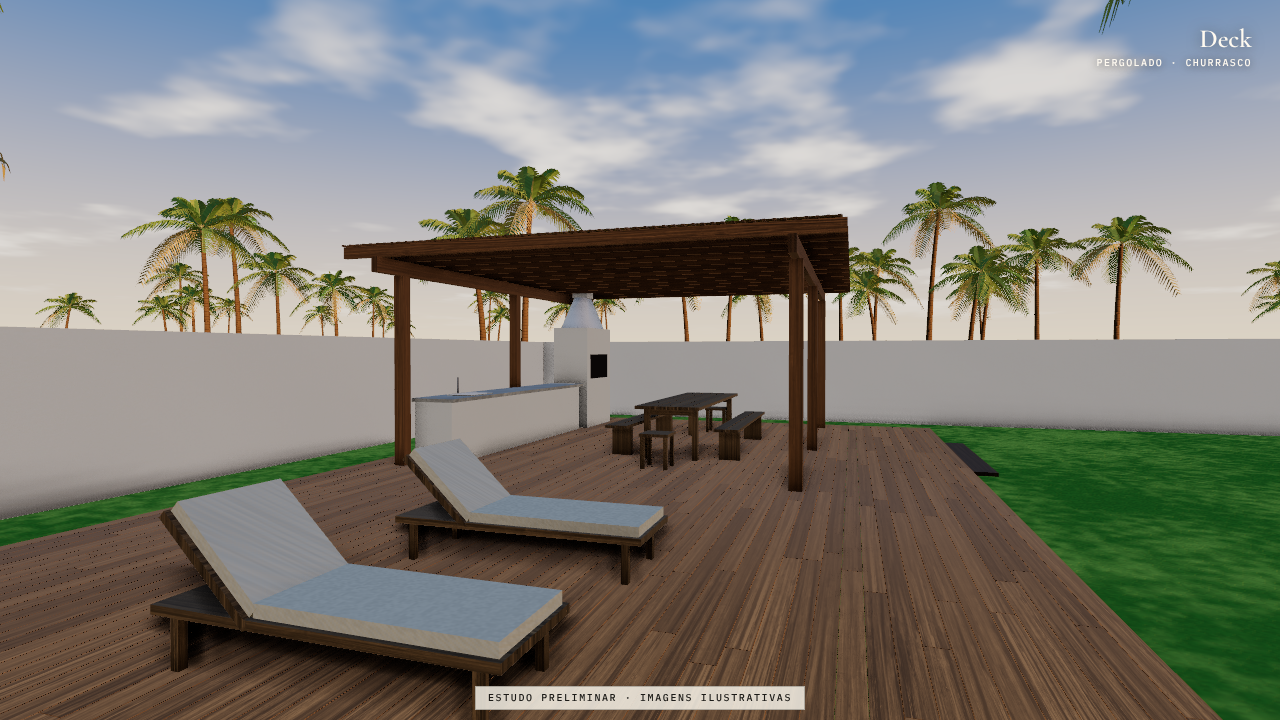
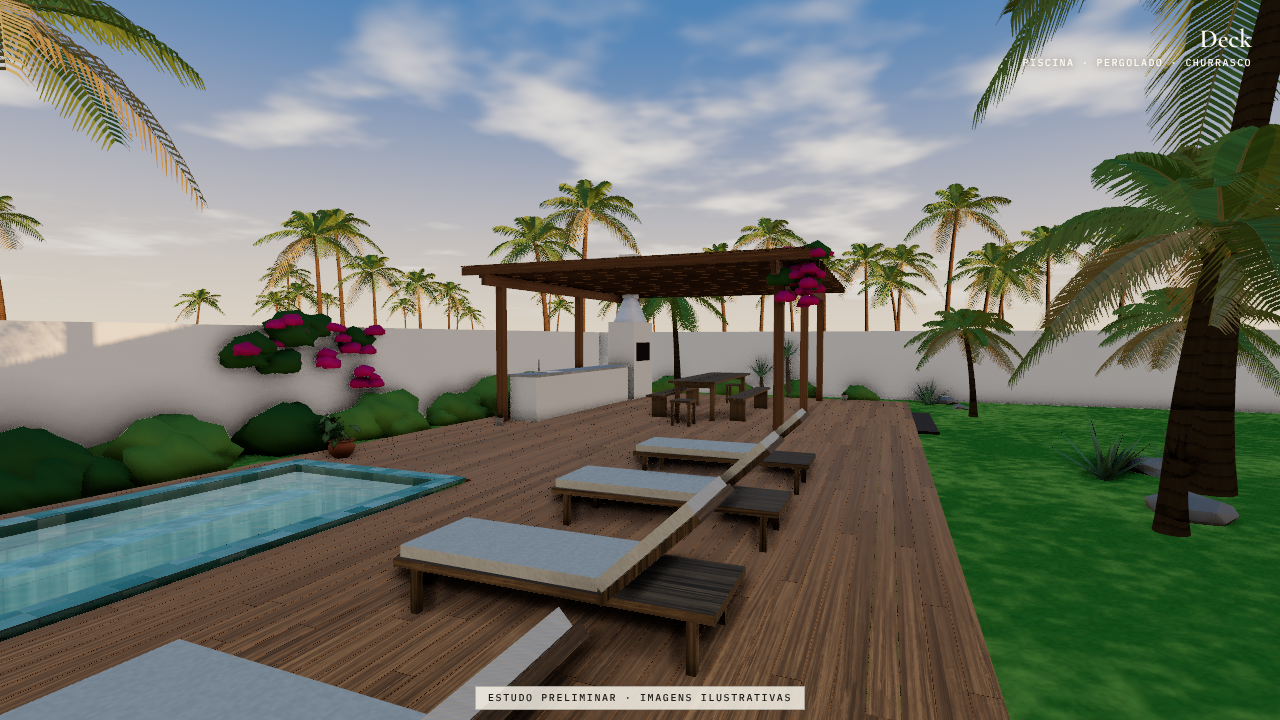
Deck: piscina pequena de hijau, jardim tropical, yucas, coqueiros jovens e cajueiro
Claude-Session: https://claude.ai/code/session_01YPcRSbRADDpDwY2jFYXNFA

diff --git a/js/world.js b/js/world.js
@@ -167,7 +167,7 @@ export function makeMaterials(T, env) {
       m = std('#ffffff', 0.97);
       patch(m, { kind, U, uniforms: { uS: { value: lin('#dcc59c') }, uG: { value: lin('#6d7f3c') }, uD: { value: lin('#a89064') }, uOut: { value: 0 }, uTex: { value: T.sand }, uTexN: { value: T.sandN } },
         head: 'uniform vec3 uS, uG, uD; uniform float uOut; uniform sampler2D uTex, uTexN;' + TRI,
-        color: `if (vWP.x > 29.25 && vWP.x < 44.25 && vWP.z > 12. && vWP.z < 14.) discard; float big = fbm(vWP.xz * .045 + 3.1), mid = fbm(vWP.xz * .5), fine = vn(vWP.xz * 18.);
+        color: `if ((vWP.x > 29.25 && vWP.x < 44.25 && vWP.z > 12. && vWP.z < 14.) || (vWP.x > 38.2 && vWP.x < 42.7 && vWP.z > -13.9 && vWP.z < -11.7)) discard; float big = fbm(vWP.xz * .045 + 3.1), mid = fbm(vWP.xz * .5), fine = vn(vWP.xz * 18.);
           vec3 st = texture2D(uTex, vWP.xz * .4).rgb;
           vec3 c = uS * (.9 + .15 * mid) * mix(1., clamp(lum(st) / .1825, .3, 2.2), .7);
           float far = smoothstep(4., 14., min(max(max(${LOT.x0.toFixed(1)} - vWP.x, vWP.x - ${LOT.x1.toFixed(1)}), max(-vWP.z, vWP.z - 23.)), max(max(${LOT.lx.toFixed(1)} - vWP.x, vWP.x - ${LOT.x1.toFixed(1)}), max(${LOT.lz.toFixed(1)} - vWP.z, vWP.z))));
@@ -181,7 +181,7 @@ export function makeMaterials(T, env) {
     } else if (kind === 'grass') {
       m = std('#ffffff', 0.95);
       patch(m, { kind, U, uniforms: { uA: { value: lin('#5c9534') }, uB: { value: lin('#97c052') } }, head: 'uniform vec3 uA, uB;',
-        color: `if (vWP.x > 29.25 && vWP.x < 44.25 && vWP.z > 12. && vWP.z < 14.) discard; float n = fbm(vWP.xz * .6), f = vn(vWP.xz * 40.), g = vn(vWP.xz * 9.);
+        color: `if ((vWP.x > 29.25 && vWP.x < 44.25 && vWP.z > 12. && vWP.z < 14.) || (vWP.x > 38.2 && vWP.x < 42.7 && vWP.z > -13.9 && vWP.z < -11.7)) discard; float n = fbm(vWP.xz * .6), f = vn(vWP.xz * 40.), g = vn(vWP.xz * 9.);
           diffuseColor.rgb = mix(uA, uB, smoothstep(.3, .75, n * .7 + g * .3)) * (.88 + .2 * f);`,
         bump: 'hgt = vn(vWP.xz * 40.) * .01 + vn(vWP.xz * 9.) * .01;' });
     } else if (kind === 'water') {
@@ -403,6 +403,7 @@ export async function buildWorld({ url, T, env, phone, onProgress }) {
     // lote em L: muros e gramado são refeitos adiante; a frente avança FX, a ducha acompanha o muro do fundo
     if ((k === 4 && Math.abs(bb.max.y - 2) < 0.01 && bb.min.y < 0.01) || k === 3) { srcMat[k] = o.material; return; }
     if (k === 6 && bb.min.x < 16 + FX) return; // pisantes que ficariam dentro do estacionamento
+    if (k === 65 && bb.max.x - bb.min.x > 20) return; // cerca-viva em caixa atrás do bloco A: agora fica à vista, o jardim do deck entra no lugar
     if (k === 69) {
       const x = (bb.min.x + bb.max.x) / 2, z = (bb.min.z + bb.max.z) / 2;
       if (x > 17.6 && x < 19) { const [nx, nz] = MOVED[moved++ % MOVED.length]; trunks.push({ x: nx, z: nz, h: bb.max.y }); } // coqueiros da faixa da frente vão para o jardim do deck
@@ -496,24 +497,27 @@ export async function buildWorld({ url, T, env, phone, onProgress }) {
   }
   // deck de madeira com quiosque de churrasco, na ala do mar (decisão do Leonardo; não existe no GLB)
   {
-    const add = (geos, kind, hex, ink = 0, cast = true) => {
+    const add = (geos, kind, hex, ink = 0, cast = true, plain = false) => {
       geos.forEach((g) => { g.computeBoundingBox(); pieceIds(g, g.boundingBox); });
       const geo = mergeGeometries(geos.map((g) => (g.index ? g.toNonIndexed() : g))); geo.computeBoundingBox(); const bb = geo.boundingBox;
       const U = { uCut: { value: 1e4 }, uAxis: { value: V(1, 0, 0) }, uBand: { value: 0 } };
-      const mat = M.make(kind, hex, U); mat.side = THREE.DoubleSide; mat.shadowSide = THREE.DoubleSide;
-      const m = new THREE.Mesh(geo, mat); m.receiveShadow = true;
+      const mat = M.make(kind, hex, U); if (!plain) { mat.side = THREE.DoubleSide; mat.shadowSide = THREE.DoubleSide; }
+      const m = new THREE.Mesh(geo, mat); m.receiveShadow = true; if (kind === 'poolwater') m.renderOrder = 3;
       if (cast) { m.castShadow = true; m.customDepthMaterial = depthPatch(U); }
       m.userData = { stage: 6, ink, U, lo: bb.min.x - 0.05, hi: bb.max.x + 0.05, mode: 'x', hotel: true, kind };
       root.add(m); groups.push(m);
     };
     const box = (w, h, d, x, y, z) => new THREE.BoxGeometry(w, h, d).translate(x, y, z);
     const cyl = (r, h, x, y, z, r2 = r) => new THREE.CylinderGeometry(r2, r, h, 14).translate(x, y, z);
-    const D = DECK, K = KIO, rr = rng(31);
+    const D = DECK, K = KIO, rr = rng(31), PP = { x0: 38.2, x1: 42.7, z0: -13.9, z1: -11.7, d: 1.1 }, cp = 0.25;
     // tábuas de 14 cm correndo ao comprido, emendadas em comprimentos variados; cada uma é uma peça (tom e veio próprios)
     const planks = [], Wd = 0.14, gap = 0.003;
     for (let z = D.z0; z < D.z1 - 0.01; z += Wd + gap) {
-      let x = D.x0;
-      while (x < D.x1 - 0.01) { const l = Math.min(D.x1 - x, 2.4 + rr() * 2.2); planks.push(box(l - gap, 0.03, Wd, x + l / 2, D.h - 0.015, z + Wd / 2)); x += l; }
+      const hole = z + Wd > PP.z0 - cp && z < PP.z1 + cp; // a piscina do deck interrompe as tábuas
+      (hole ? [[D.x0, PP.x0 - cp], [PP.x1 + cp, D.x1]] : [[D.x0, D.x1]]).forEach(([xa, xb]) => {
+        let x = xa;
+        while (x < xb - 0.01) { const l = Math.min(xb - x, 2.4 + rr() * 2.2); planks.push(box(l - gap, 0.03, Wd, x + l / 2, D.h - 0.015, z + Wd / 2)); x += l; }
+      });
     }
     add(planks, 'deck', '#c98a52');
     // saia e barrotes
@@ -548,16 +552,86 @@ export async function buildWorld({ url, T, env, phone, onProgress }) {
       [-1, 1].forEach((sx) => furn.push(box(0.07, 0.43, 0.3, tx + sx * (tl / 2 - 0.45), by + 0.215, zb))); });
     [-1, 1].forEach((sx) => { const xb = tx + sx * (tl / 2 + 0.45); furn.push(box(0.4, 0.04, 0.4, xb, by + 0.45, tz)); [[-1, -1], [-1, 1], [1, -1], [1, 1]].forEach(([a, b]) => furn.push(box(0.05, 0.43, 0.05, xb + a * 0.16, by + 0.215, tz + b * 0.16))); });
     add(furn, 'wood', '#b08a5e');
-    // espreguiçadeiras no deck aberto, viradas para o sol da tarde
+    // espreguiçadeiras no deck aberto, viradas para a piscina do deck
     const fr2 = [], cush = [];
     [38.6, 40.4, 42.2, 44.0].forEach((x) => {
-      const z = -10.3;
+      const z = -8.7;
       fr2.push(box(0.66, 0.05, 1.95, x, by + 0.3, z)); [[-1, -1], [-1, 1], [1, -1], [1, 1]].forEach(([a, b]) => fr2.push(box(0.05, 0.28, 0.05, x + a * 0.28, by + 0.14, z + b * 0.85)));
-      cush.push(box(0.6, 0.07, 1.3, x, by + 0.36, z + 0.3));
-      const back = box(0.6, 0.07, 0.68, 0, 0, 0).rotateX(0.75).translate(x, by + 0.58, z - 0.6); cush.push(back);
-      const sup = box(0.66, 0.05, 0.72, 0, 0, 0).rotateX(0.75).translate(x, by + 0.53, z - 0.63); fr2.push(sup);
+      cush.push(box(0.6, 0.07, 1.3, x, by + 0.36, z - 0.3));
+      const back = box(0.6, 0.07, 0.68, 0, 0, 0).rotateX(-0.75).translate(x, by + 0.58, z + 0.6); cush.push(back);
+      const sup = box(0.66, 0.05, 0.72, 0, 0, 0).rotateX(-0.75).translate(x, by + 0.53, z + 0.63); fr2.push(sup);
     });
     add(fr2, 'wood', '#b08a5e'); add(cush, 'fabric', '#e6dcc6');
+
+    // piscina pequena no deck (4,5 × 2,2 m), na mesma pedra hijau da piscina do pátio
+    {
+      const L = PP.x1 - PP.x0, W2 = PP.z1 - PP.z0, cx = (PP.x0 + PP.x1) / 2, cz = (PP.z0 + PP.z1) / 2, hh = D.h + PP.d, ym = D.h - hh / 2;
+      add([new THREE.PlaneGeometry(L, W2).rotateX(-Math.PI / 2).translate(cx, -PP.d, cz),
+        new THREE.PlaneGeometry(L, hh).translate(cx, ym, PP.z0), new THREE.PlaneGeometry(L, hh).rotateY(Math.PI).translate(cx, ym, PP.z1),
+        new THREE.PlaneGeometry(W2, hh).rotateY(Math.PI / 2).translate(PP.x0, ym, cz), new THREE.PlaneGeometry(W2, hh).rotateY(-Math.PI / 2).translate(PP.x1, ym, cz),
+        // banco submerso num dos lados, como numa jacuzzi
+        box(L, 0.5, 0.45, cx, -PP.d + 0.75, PP.z0 + 0.225)], 'hijau', '#ffffff', 0, false, true);
+      add([box(L + 2 * cp, 0.04, cp, cx, D.h + 0.005, PP.z0 - cp / 2), box(L + 2 * cp, 0.04, cp, cx, D.h + 0.005, PP.z1 + cp / 2),
+        box(cp, 0.04, W2, PP.x0 - cp / 2, D.h + 0.005, cz), box(cp, 0.04, W2, PP.x1 + cp / 2, D.h + 0.005, cz)], 'hijau', '#ffffff', 0, true, true);
+      add([new THREE.PlaneGeometry(L, W2).rotateX(-Math.PI / 2).translate(cx, D.h - 0.07, cz)], 'poolwater', '#ffffff', 2, false, true);
+    }
+
+    // jardim do deck: canteiros tropicais junto aos muros e ilhas no gramado (moitas, agaves, pedras, primavera)
+    {
+      const g2 = rng(77), R2 = (a, b) => a + g2() * (b - a);
+      const blob = (x, y, z, s, sy = 0.8) => {
+        const sg = new THREE.SphereGeometry(1, 10, 7), pa = sg.attributes.position, ph = g2() * 9;
+        for (let i = 0; i < pa.count; i++) { const X = pa.getX(i), Y = pa.getY(i), Z = pa.getZ(i), f = 1 + 0.2 * Math.sin(X * 5.1 + ph) * Math.sin(Z * 4.3 + Y * 3.7) + 0.09 * Math.sin(Y * 11 + X * 7 + ph); pa.setXYZ(i, X * f, Math.max(-0.4, Y) * f, Z * f); }
+        sg.computeVertexNormals(); return sg.scale(s, s * sy, s).translate(x, y + s * sy * 0.4, z);
+      };
+      const clump = (x, z, s) => { const o = [blob(x, 0, z, s)]; for (let j = 0; j < 3; j++) { const a = g2() * 6.28; o.push(blob(x + Math.cos(a) * s * 0.7, 0, z + Math.sin(a) * s * 0.7, s * R2(0.55, 0.8))); } return o; };
+      const agave = (x, z, s, y0 = 0.05) => { const o = [], n = 15; for (let i = 0; i < n; i++) {
+        const len = s * R2(0.7, 1.1), tilt = i < 5 ? R2(0.15, 0.4) : R2(0.6, 1.15), g = new THREE.ConeGeometry(0.085 * s, len, 4, 1); g.scale(1, 1, 0.3); g.translate(0, len / 2, 0);
+        g.rotateX(tilt); g.rotateY(i * 2.4 + g2()); g.translate(x, y0, z); o.push(g); } return o; };
+      const rock = (x, z, s) => { const g = new THREE.IcosahedronGeometry(1, 1), pa = g.attributes.position, ph = g2() * 9;
+        for (let i = 0; i < pa.count; i++) { const X = pa.getX(i), Y = pa.getY(i), Z = pa.getZ(i), f = 1 + 0.22 * Math.sin(X * 3.1 + ph) * Math.cos(Z * 2.7 + Y * 2.2 + ph); pa.setXYZ(i, X * f, Y * f, Z * f); }
+        g.computeVertexNormals(); return g.scale(s * R2(0.8, 1.3), s * 0.55, s).rotateY(g2() * 6.28).translate(x, s * 0.2, z); };
+      const dark = [], light = [], ag = [], rocks = [], flor = [];
+      // muro do mar (atrás do deck) e muro lateral: faixa alta e cheia
+      for (let x = 33.2; x < 55.4; x += R2(1.3, 1.9)) (g2() < 0.5 ? dark : light).push(...clump(x, R2(-15.7, -15.3), R2(0.55, 0.85)));
+      for (let z = -14.2; z < -0.8; z += R2(1.4, 2.0)) (g2() < 0.5 ? dark : light).push(...clump(R2(32.75, 33.1), z, R2(0.45, 0.7)));
+      for (let z = -15; z < -7.2; z += R2(1.5, 2.1)) (g2() < 0.5 ? dark : light).push(...clump(R2(55.1, 55.4), z, R2(0.4, 0.6)));
+      for (let x = 33.6; x < 50.6; x += R2(1.7, 2.6)) (g2() < 0.5 ? dark : light).push(...clump(x, R2(0.35, 0.6), R2(0.32, 0.5))); // pé do bloco A
+      // primavera (bougainvillea) subindo no muro e num canto do pergolado
+      [[36, -15.95], [44.4, -15.95], [32.4, -8.5]].forEach(([x, z]) => {
+        const wx = z < -15, sp = (a) => [x + (wx ? R2(-a, a) : R2(-0.08, 0.12)), R2(0.9, 2.0), z + (wx ? R2(-0.08, 0.12) : R2(-a, a))];
+        for (let j = 0; j < 7; j++) dark.push(blob(...sp(1.2), R2(0.28, 0.42), 0.8));
+        for (let j = 0; j < 26; j++) { const q = sp(1.3); flor.push(blob(q[0] + (wx ? 0 : 0.2), q[1], q[2] + (wx ? 0.2 : 0), R2(0.1, 0.19), 0.75)); }
+      });
+      for (let j = 0; j < 6; j++) dark.push(blob(K.x0 + R2(-0.4, 0.8), D.h + K.h + R2(-0.25, 0.3), K.z1 + R2(-0.2, 0.45), R2(0.2, 0.32), 0.7));
+      for (let j = 0; j < 24; j++) flor.push(blob(K.x0 + R2(-0.5, 1.0), D.h + K.h + R2(-0.5, 0.45), K.z1 + R2(-0.1, 0.6), R2(0.08, 0.16), 0.75));
+      // yucas: troncos finos com um penacho de folhas em espada
+      const tr2 = [];
+      [[36.2, -7.3, 1.5], [35.75, -6.75, 0.9], [36.55, -6.6, 0.5], [37.4, -15.3, 1.7], [36.7, -15.5, 1.0], [54.9, -9.6, 1.3], [55.2, -10.4, 0.7], [45.0, -2.3, 1.2], [45.6, -2.7, 0.6]].forEach(([x, z, h]) => {
+        const lx = R2(-0.12, 0.12), lz = R2(-0.12, 0.12), g = new THREE.CylinderGeometry(0.05, 0.08, h, 8).translate(0, h / 2, 0); g.rotateZ(-lx / h).rotateX(lz / h).translate(x, 0, z); tr2.push(g);
+        ag.push(...agave(x + lx, z + lz, 0.62, h - 0.05));
+      });
+      // cajueiro: tronco baixo e torto, copa larga e achatada, cajus maduros
+      {
+        const cxj = 34.0, czj = -9.0, limb = (a, b, r) => { const d = b.clone().sub(a), g = new THREE.CylinderGeometry(r * 0.7, r, d.length(), 8); g.applyQuaternion(new THREE.Quaternion().setFromUnitVectors(V(0, 1, 0), d.clone().normalize())); g.translate((a.x + b.x) / 2, (a.y + b.y) / 2, (a.z + b.z) / 2); return g; };
+        const fork = V(cxj + 0.25, 1.15, czj - 0.1), cajus = [], verm = [];
+        tr2.push(limb(V(cxj, 0, czj), fork, 0.17));
+        [[1.5, 2.3, 0.4], [-1.2, 2.4, 0.9], [0.2, 2.5, -1.5], [-0.6, 2.2, -0.9], [0.9, 2.6, 1.3]].forEach(([dx, y, dz]) => tr2.push(limb(fork, V(cxj + dx, y, czj + dz), 0.1)));
+        for (let j = 0; j < 16; j++) { const a = j * 2.4, d = j < 4 ? R2(0, 0.6) : R2(1.0, 2.1); (j % 3 ? dark : light).push(blob(cxj + Math.cos(a) * d, R2(2.2, 2.9) - d * 0.22, czj + Math.sin(a) * d, R2(0.75, 1.1), 0.55)); }
+        for (let j = 0; j < 22; j++) { const a = g2() * 6.28, d = R2(0.5, 2.2); (j % 2 ? cajus : verm).push(new THREE.SphereGeometry(0.045, 6, 5).scale(1, 1.35, 1).translate(cxj + Math.cos(a) * d, R2(1.95, 2.35) - d * 0.2, czj + Math.sin(a) * d)); }
+        add(cajus, 'leaf', '#e8b83a', 6); add(verm, 'leaf', '#d2452c', 6);
+      }
+      add(tr2, 'wood', '#9b8468');
+      // ilhas entre o deck e o bloco A, em volta dos coqueiros
+      [[34.6, -4.6], [40.5, -3.2], [46.2, -3.6], [34.4, -13.2]].forEach(([x, z]) => {
+        for (let j = 0; j < 3; j++) { const a = j * 2.1 + g2(), d = R2(0.9, 1.4); ag.push(...agave(x + Math.cos(a) * d, z + Math.sin(a) * d, R2(0.55, 0.8))); }
+        for (let j = 0; j < 3; j++) { const a = j * 2.1 + 1 + g2(), d = R2(0.8, 1.6); rocks.push(rock(x + Math.cos(a) * d, z + Math.sin(a) * d, R2(0.22, 0.42))); }
+        light.push(...clump(x + R2(-1.6, -1.1), z + R2(0.6, 1.2), 0.38));
+      });
+      // canto do deck junto ao degrau e frente do deck
+      [[36.2, -7.2], [36.3, -12.5], [54.7, -6.0]].forEach(([x, z]) => { ag.push(...agave(x, z, 0.75)); rocks.push(rock(x + 0.7, z + 0.5, 0.3), rock(x - 0.5, z + 0.7, 0.2)); });
+      add(dark, 'leaf', '#3f6a2c', 6); add(light, 'leaf', '#6c9440', 6); add(ag, 'leaf', '#6f9a78', 6); add(rocks, 'stone', '#a39d92'); add(flor, 'leaf', '#d0387e', 6);
+    }
   }
   // gabarito da obra (só na etapa 1): linha de estacas no perímetro do lote
   {
@@ -584,9 +658,10 @@ export async function buildWorld({ url, T, env, phone, onProgress }) {
   const nutMat = new THREE.MeshStandardMaterial({ color: '#7d6a2c', roughness: 0.7, metalness: 0 });
   const palms = new THREE.Group();
   trunks.push({ x: 34.4, z: -13.2, h: 7 }, { x: 46.2, z: -3.6, h: 6.2 });
+  trunks.push({ x: 44.2, z: -4.6, h: 4.2, s: 0.5 }, { x: 49.4, z: -2.3, h: 4, s: 0.4 }, { x: 55.0, z: -13.0, h: 4.6, s: 0.55 }, { x: 33.5, z: -1.7, h: 4, s: 0.45 }, { x: 52.6, z: -5.2, h: 4, s: 0.38 }); // coqueiros jovens do jardim (palmeira inteira em escala menor)
   trunks.forEach((t, i) => {
     const p = palmGeometry(t.h + 1.2, 100 + i, phone ? 0.6 : 1);
-    const g = new THREE.Group(); g.position.set(t.x, 0, t.z);
+    const g = new THREE.Group(); g.position.set(t.x, 0, t.z); if (t.s) g.scale.setScalar(t.s);
     const a = new THREE.Mesh(p.trunk, trunkMat), b = new THREE.Mesh(p.leaves, leafMat);
     a.castShadow = b.castShadow = true; a.receiveShadow = b.receiveShadow = true;
     a.userData = b.userData = { stage: 0, ink: 6, palm: true };

diff --git a/js/main.js b/js/main.js
@@ -138,8 +138,9 @@ const KEYS = [
   [20.2, 41, 5.1, 13.2, 38, 2, 13, 62],
   [20.8, 53.2, 3.4, 11, 51, 1.2, -4, 62],                    // passagem do fundo, rumo ao deck
   [21.4, 46.5, 1.9, -3.6, 49.5, 1.3, -11, 60],               // chegando ao deck
-  [22.1, 39.6, 1.75, -8.0, 50, 1.6, -11.4, 58],              // deck e pergolado do churrasco
-  [22.5, 44, 5, 2, 46, 1, 6, 60],
+  [22.1, 37.4, 1.8, -7.0, 50, 1.3, -12.2, 62],               // deck, piscina e pergolado do churrasco
+  [22.45, 45.5, 2.3, -9.6, 34, 1.6, -9.2, 60],               // piscina do deck e cajueiro
+  [22.75, 53, 12, -12, 40, 1, 6, 60],
   [23.0, 50.3, 10.5, 13, 30, 1, 13, 62],                     // final_do_fundo
   [24.1, 52.5, 13, 13, 30, 1, 13, 62],
 ];
@@ -202,7 +203,7 @@ const CAPS = [
   [16.1, 17.75, 'Apto 10', 'varanda para a piscina'],
   [17.75, 18.6, 'Apto 10', 'sala e cozinha'],
   [18.6, 19.6, 'Apto 10', 'quarto'],
-  [20.9, 22.4, 'Deck', 'pergolado · churrasco'],
+  [20.9, 22.4, 'Deck', 'piscina · pergolado · churrasco'],
 ];
 
 // ---------------------------------------------------------------- luz por mês

diff --git a/js/props.js b/js/props.js
@@ -15,6 +15,7 @@ const PROPS = [
   ['potted_plant_04', 21.6, 0.1, 21.45, 140, 0.9],
   ['potted_plant_04', 24.35, 0.1, 20.9, 70, 0.9],
   ['potted_plant_02', 39.72, 3.0, 8.45, 0, 0.45],
+  ['potted_plant_04', 46.6, 0.18, -13.6, 30, 0.9], ['potted_plant_04', 53.6, 0.18, -8.0, 200, 0.85], ['potted_plant_02', 43.3, 0.18, -13.9, 0, 0.5], // deck
   // apto 10 (sala e cozinha, x 39,4–42,7 × z 2,9–8,6): modelos próprios, origem no meio da face de trás; sem largura = sem ajuste
   ['geladeira', 42.69, 3.0, 4.43, -90],              // parede da cozinha x = 42,69
   ['cozinha', 42.69, 3.0, 5.65, -90],                // bancada z 4,8–6,5

diff --git a/CLAUDE.md b/CLAUDE.md
@@ -16,7 +16,7 @@ Leonardo responde em português, quer respostas curtas e objetivas, é visual, e
 ## Coordenadas (metros)
 - x: frente (0, estacionamento/acesso) → fundo (53). z: lado do mar (0) → lado de terra (23). y para cima.
 - Terreno ~53 × 23 m (~1.200 m²). Frente com "dente": muro em x=0 para z 0–15,6 e recuado para x=2 em z 15,6–23 (entrada de carro).
-- ATUALIZAÇÃO (certidão da prefeitura): o lote é em L, 1.632,78 m² — frente 24 m, fundos 40,2 m, norte 30 + 23,9 m. No site (`js/world.js`, `FX`/`LOT`) os blocos ficam nas coordenadas do GLB e o lote vai de x=3 a x=56 (blocos 3 m mais perto do estacionamento, passagem de 5 m no fundo); a ala nova é x 32,1–56, z −16,2–0, com deck de madeira 17 × 8 m e pergolado de churrasco (bancada, churrasqueira, mesa para 10). Muros e gramado do lote são refeitos em código; o resto segue o GLB.
+- ATUALIZAÇÃO (certidão da prefeitura): o lote é em L, 1.632,78 m² — frente 24 m, fundos 40,2 m, norte 30 + 23,9 m. No site (`js/world.js`, `FX`/`LOT`) os blocos ficam nas coordenadas do GLB e o lote vai de x=3 a x=56 (blocos 3 m mais perto do estacionamento, passagem de 5 m no fundo); a ala nova é x 32,1–56, z −16,2–0, com deck de madeira 17 × 8 m e pergolado de churrasco (bancada, churrasqueira, mesa para 10). No deck há também uma piscina pequena de pedra hijau (4,5 × 2,2 m) com as espreguiçadeiras viradas para ela; o jardim tem canteiros tropicais, primavera, yucas, coqueiros jovens e um cajueiro (pedidos do Leonardo). Muros e gramado do lote são refeitos em código; o resto segue o GLB.
 
 ## Programa
 - Estacionamento de areia compactada na frente (x 0–~16), 6 vagas.
